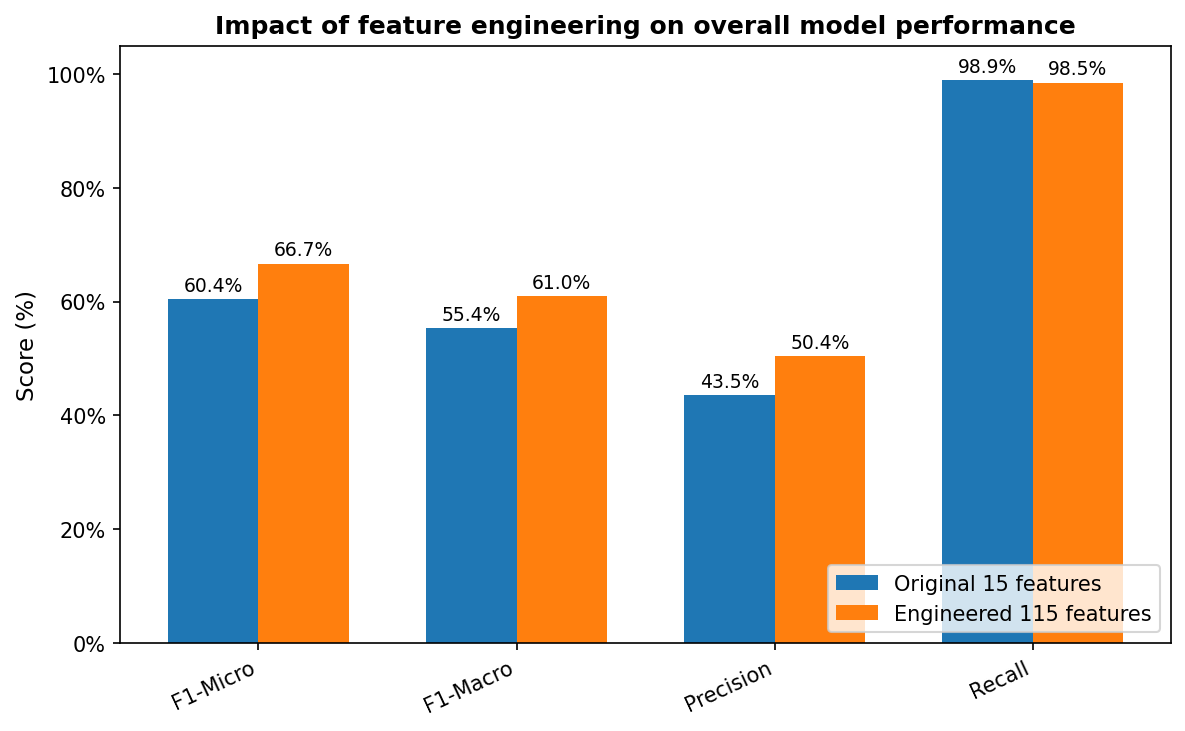
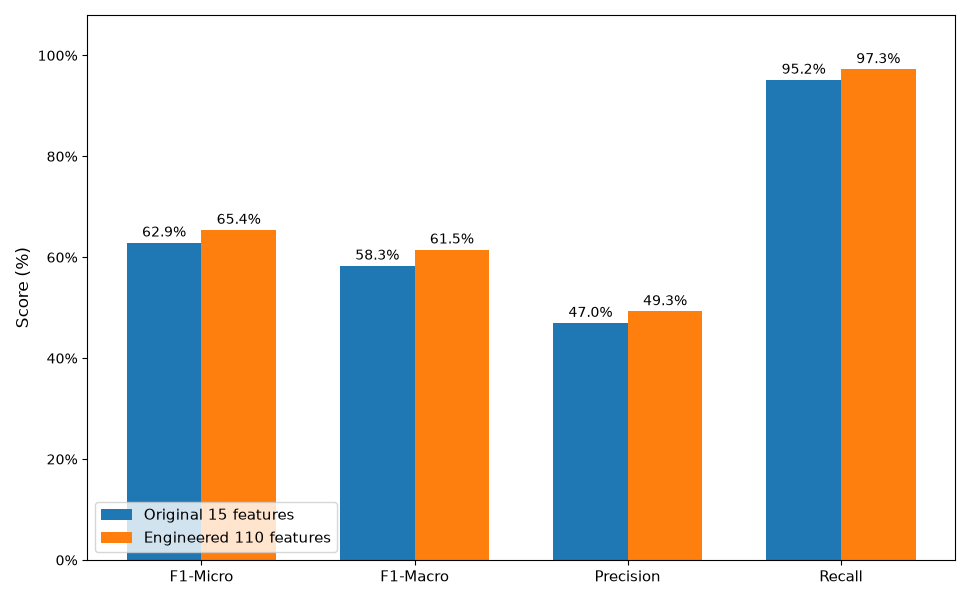
fix: regenerate article figures from the study data and leak-free model
- Redo the 15 vs. 110 feature comparison (Figure 2) under the leak-free
  protocol; previous numbers had no reproducible source
- Add script for Figures S1-S4 drawn from the dataset used in the study
- Add screenshot of the current Streamlit app (Figure 4) and the
  neural-network learning curves (Figure 6 / S33)
- README: mark the Random Forest / XGBoost reproducibility gap as an
  open issue and note that defect-free values in the study data are
  normally distributed, unlike the current generator

diff --git a/generate_supplementary_dataset_figures.py b/generate_supplementary_dataset_figures.py
@@ -1,0 +1,176 @@
+"""
+Supplementary dataset figures (Figures S1-S4), drawn from the dataset used in the study
+(aluminum_diecasting_dataset_with_features.csv) and the operating ranges of the metadata JSON.
+
+  figures/supplementary/figS1_distribution_process_variables.png
+  figures/supplementary/figS2_defect_occurrence_rates.png
+  figures/supplementary/figS3_scatter_matrix.png
+  figures/supplementary/figS4_variables_out_of_range.png
+
+Run from the repository root:  python generate_supplementary_dataset_figures.py
+"""
+import json
+from pathlib import Path
+
+import matplotlib
+
+matplotlib.use("Agg")
+import matplotlib.pyplot as plt
+import numpy as np
+import pandas as pd
+from matplotlib.lines import Line2D
+from matplotlib.patches import Patch
+
+ROOT = Path(__file__).resolve().parent
+OUT = ROOT / "figures" / "supplementary"
+BLUE, ORANGE = "#4682b4", "#ff7f50"
+
+SHORT_NAMES = {
+    "piston_velocity_phase1": "Piston velocity (Phase 1)",
+    "metal_velocity_gate": "Metal velocity at gate",
+    "fill_time": "Cavity fill time",
+    "phase_transition_position": "Phase transition position",
+    "intensification_time_phase3": "Intensification time",
+    "intensification_pressure": "Intensification pressure",
+    "solidification_time": "Solidification time",
+    "cycle_time": "Cycle time",
+    "sleeve_fill_percentage": "Sleeve fill percentage",
+    "sleeve_diameter": "Sleeve diameter",
+    "sleeve_length": "Sleeve length",
+    "plunger_sleeve_clearance": "Plunger-sleeve clearance",
+    "sleeve_temperature": "Sleeve temperature",
+    "plunger_temperature": "Plunger temperature",
+}
+SCATTER_VARS = ["metal_velocity_gate", "fill_time", "intensification_pressure", "solidification_time"]
+# Design proportions of the generator (Supplementary Eq. 4); the 3% of ">= 4 variables" is split 40/30/20/10
+EXPECTED = {1: 65.0, 2: 27.0, 3: 5.0, 4: 1.2, 5: 0.9, 6: 0.6, 7: 0.3}
+
+
+def load():
+    df = pd.read_csv(ROOT / "aluminum_diecasting_dataset_with_features.csv")
+    with open(ROOT / "aluminum_diecasting_dataset_metadata.json", encoding="utf-8") as f:
+        meta = json.load(f)
+    ranges = meta["generation_config"]["variable_ranges"]
+    return df, meta["columns"]["defects"], ranges
+
+
+def n_vars_out(df):
+    """Number of process variables outside the defect-free zone (14 continuous + lubrication)."""
+    return df["n_vars_out_of_range"] + (df["plunger_lubricant"] != 0)
+
+
+def fig_s1(df, ranges):
+    plt.style.use("seaborn-v0_8-whitegrid")
+    fig, axes = plt.subplots(3, 5, figsize=(22, 14))
+    axes = axes.ravel()
+    for ax, (var, name) in zip(axes, SHORT_NAMES.items()):
+        lo, hi = ranges[var]["defect_free_range"]
+        x = df[var]
+        inside = (x >= lo) & (x <= hi)
+        bins = np.linspace(x.min(), x.max(), 51)
+        ax.hist(x[inside], bins=bins, color=BLUE, alpha=0.75, edgecolor="black", linewidth=0.4)
+        ax.hist(x[~inside], bins=bins, color=ORANGE, alpha=0.75, edgecolor="black", linewidth=0.4)
+        ax.axvline(lo, color="green", linestyle="--", linewidth=1.8)
+        ax.axvline(hi, color="green", linestyle="--", linewidth=1.8)
+        ax.set_yscale("log")
+        ax.set_title(name, fontsize=11, fontweight="bold")
+        ax.set_xlabel(ranges[var]["unit"].replace("�", "°"), fontsize=9)
+    axes[-1].axis("off")
+    axes[-1].legend(
+        handles=[Patch(color=BLUE, alpha=0.75, label="Defect-free zone"),
+                 Patch(color=ORANGE, alpha=0.75, label="Defect-prone zone"),
+                 Line2D([0], [0], color="green", linestyle="--", label="Defect-free boundaries")],
+        loc="center", fontsize=12, frameon=False)
+    fig.tight_layout()
+    fig.savefig(OUT / "figS1_distribution_process_variables.png", dpi=100, facecolor="white")
+    plt.close(fig)
+
+
+def fig_s2(df, defects):
+    rates = (df[defects].mean() * 100).sort_values()
+    plt.style.use("seaborn-v0_8-whitegrid")
+    fig, ax = plt.subplots(figsize=(13, 10.5))
+    colors = plt.get_cmap("RdYlGn_r")(np.linspace(0.15, 0.85, len(rates)))
+    bars = ax.barh([d.replace("_", " ").title() for d in rates.index], rates.values, color=colors,
+                   edgecolor="black", linewidth=0.7)
+    ax.bar_label(bars, labels=[f"{v:.2f}%" for v in rates.values], padding=10, fontsize=9)
+    ax.set_xlabel("Occurrence Rate (%)", fontsize=13, fontweight="bold")
+    ax.set_xlim(0, rates.max() * 1.12)
+    ax.tick_params(labelsize=11)
+    ax.grid(axis="y", visible=False)
+    fig.tight_layout()
+    fig.savefig(OUT / "figS2_defect_occurrence_rates.png", dpi=100, facecolor="white")
+    plt.close(fig)
+
+
+def fig_s3(df, ranges):
+    all_ok = n_vars_out(df) == 0
+    plt.style.use("seaborn-v0_8-whitegrid")
+    n = len(SCATTER_VARS)
+    fig, axes = plt.subplots(n, n, figsize=(13, 13))
+    for i, vy in enumerate(SCATTER_VARS):
+        for j, vx in enumerate(SCATTER_VARS):
+            ax = axes[i, j]
+            if i == j:
+                ax.axis("off")
+                ax.text(0.5, 0.5, SHORT_NAMES[vx].replace(" ", "\n"), ha="center", va="center",
+                        fontsize=11, fontweight="bold", transform=ax.transAxes)
+                continue
+            ax.scatter(df.loc[~all_ok, vx], df.loc[~all_ok, vy], s=18, color="#ff8c00", alpha=0.7,
+                       edgecolors="#8b4500", linewidths=0.4, rasterized=True)
+            ax.scatter(df.loc[all_ok, vx], df.loc[all_ok, vy], s=18, color=BLUE, alpha=0.6,
+                       edgecolors="#1f3b57", linewidths=0.3, rasterized=True)
+            ax.set_xlim(*ranges[vx]["defect_prone_range"])
+            ax.set_ylim(*ranges[vy]["defect_prone_range"])
+            ax.tick_params(labelsize=7)
+            if i == n - 1 or (i == n - 2 and j == n - 1):
+                ax.set_xlabel(f"{SHORT_NAMES[vx]}\n({ranges[vx]['unit']})", fontsize=8)
+            if j == 0 or (j == 1 and i == 0):
+                ax.set_ylabel(f"{SHORT_NAMES[vy]}\n({ranges[vy]['unit']})", fontsize=8)
+    fig.legend(handles=[Line2D([0], [0], marker="o", linestyle="", color=BLUE, label="All variables in defect-free zones"),
+                        Line2D([0], [0], marker="o", linestyle="", color="#ff8c00", label="At least one variable in a defect-prone zone")],
+               loc="upper center", ncol=2, fontsize=11, frameon=False)
+    fig.tight_layout(rect=(0, 0, 1, 0.97))
+    fig.savefig(OUT / "figS3_scatter_matrix.png", dpi=100, facecolor="white")
+    plt.close(fig)
+
+
+def fig_s4(df):
+    n = n_vars_out(df)
+    scenarios = n[n > 0]
+    observed = scenarios.value_counts(normalize=True).sort_index() * 100
+    ks = sorted(EXPECTED)
+    plt.style.use("seaborn-v0_8-whitegrid")
+    fig, ax = plt.subplots(figsize=(11.7, 7))
+    w = 0.4
+    b1 = ax.bar(np.array(ks) - w / 2, [observed.get(k, 0.0) for k in ks], w, color=BLUE, edgecolor="black",
+                linewidth=1.3, label=f"Observed (n = {len(scenarios):,})")
+    b2 = ax.bar(np.array(ks) + w / 2, [EXPECTED[k] for k in ks], w, color=ORANGE, edgecolor="black",
+                linewidth=1.3, label="Design (Eq. 4)")
+    ax.bar_label(b1, fmt="%.1f", fontsize=9, padding=2)
+    ax.bar_label(b2, fmt="%.1f", fontsize=9, padding=2)
+    ax.set_xticks(ks)
+    ax.set_xlabel("Number of Variables Outside Defect-free Range (k)", fontsize=13, fontweight="bold")
+    ax.set_ylabel("Percentage of Defect Scenarios (%)", fontsize=13, fontweight="bold")
+    ax.tick_params(labelsize=12)
+    ax.legend(fontsize=12)
+    ax.grid(axis="x", visible=False)
+    fig.tight_layout()
+    fig.savefig(OUT / "figS4_variables_out_of_range.png", dpi=100, facecolor="white")
+    plt.close(fig)
+    return observed
+
+
+def main():
+    OUT.mkdir(parents=True, exist_ok=True)
+    df, defects, ranges = load()
+    fig_s1(df, ranges)
+    fig_s2(df, defects)
+    fig_s3(df, ranges)
+    observed = fig_s4(df)
+    print("[OK] figures written to", OUT)
+    print("Variables outside defect-free zone (% of defect scenarios):", observed.round(1).to_dict())
+
+
+if __name__ == "__main__":
+    main()

diff --git a/feature_engineering_ablation.py b/feature_engineering_ablation.py
@@ -1,0 +1,125 @@
+"""
+Feature-engineering ablation: neural network trained on the 15 original process variables vs. the
+110 engineered features, under the official leak-free protocol.
+
+Both models use the same 80/20 split, cost-sensitive learning (no SMOTE), early stopping on an internal
+hold-out of the training data (nn_noleak) and per-defect F-beta (beta=2) thresholds selected on
+out-of-fold development predictions; the test set is used only for the final metrics.
+The 110-feature results are the official ones (models/phase3_final_models.pkl, models/oof_proba/).
+
+Run from the repository root:  python feature_engineering_ablation.py          (train + plot)
+                               python feature_engineering_ablation.py --plot   (redraw from the saved JSON)
+Output: figures/feature_engineering_recall_data.json  (also read by figures/redraw_figure2_with_labels.py)
+        figures/feature_engineering_overall_performance.png
+"""
+import json
+import pickle
+import sys
+
+import matplotlib
+
+matplotlib.use("Agg")
+import matplotlib.pyplot as plt
+
+import numpy as np
+from sklearn.metrics import f1_score, precision_score, recall_score
+
+import unified_cv_pipeline as ucv
+from feature_engineering import RAW_VARS
+from threshold_tradeoff_analysis import apply_thresholds, optimize_thresholds_strategy
+
+STRATEGY = "fbeta_2"
+MT = ucv.MODEL_PYTORCH
+TOP_N = 8
+
+
+def metrics(y, pred):
+    return {
+        "f1_micro": float(f1_score(y, pred, average="micro", zero_division=0)),
+        "f1_macro": float(ucv.macro_f1_observed(y, pred)),
+        "precision_micro": float(precision_score(y, pred, average="micro", zero_division=0)),
+        "recall_micro": float(recall_score(y, pred, average="micro", zero_division=0)),
+    }
+
+
+def evaluate(y_dev, oof, y_test, test_proba):
+    thr = optimize_thresholds_strategy(y_dev, oof, STRATEGY)
+    pred = apply_thresholds(test_proba, thr)
+    per_defect_recall = [
+        float(recall_score(y_test[:, k], pred[:, k], zero_division=0)) for k in range(y_test.shape[1])
+    ]
+    return metrics(y_test, pred), per_defect_recall
+
+
+def plot_overall(out, path="figures/feature_engineering_overall_performance.png"):
+    keys = [("f1_micro", "F1-Micro"), ("f1_macro", "F1-Macro"), ("precision_micro", "Precision"), ("recall_micro", "Recall")]
+    v15 = [out["metrics_15"][k] * 100 for k, _ in keys]
+    v110 = [out["metrics_110"][k] * 100 for k, _ in keys]
+    x, w = np.arange(len(keys)), 0.35
+    fig, ax = plt.subplots(figsize=(9.7, 6))
+    b1 = ax.bar(x - w / 2, v15, w, label="Original 15 features", color="#1f77b4")
+    b2 = ax.bar(x + w / 2, v110, w, label=f"Engineered {out['n_110']} features", color="#ff7f0e")
+    ax.bar_label(b1, fmt="%.1f%%", padding=2, fontsize=10)
+    ax.bar_label(b2, fmt="%.1f%%", padding=2, fontsize=10)
+    ax.set_xticks(x, [name for _, name in keys], fontsize=11)
+    ax.set_ylabel("Score (%)", fontsize=12)
+    ax.set_ylim(0, 108)
+    ax.yaxis.set_major_formatter(lambda v, _: f"{v:.0f}%")
+    ax.legend(loc="lower left", fontsize=11)
+    fig.tight_layout()
+    fig.savefig(path, dpi=100, facecolor="white")
+    plt.close(fig)
+
+
+def main():
+    if "--plot" in sys.argv:
+        with open("figures/feature_engineering_recall_data.json") as f:
+            plot_overall(json.load(f))
+        return
+    data = ucv.load_pipeline_data(verbose=False)
+    split = ucv.prepare_split_data(data, verbose=False)
+    cols = [split.feature_names.index(v) for v in RAW_VARS]
+    y_dev, y_test = split.y_dev.astype(int), split.y_test.astype(int)
+    X_dev, X_test = split.X_dev[:, cols], split.X_test[:, cols]
+
+    # 15 features: out-of-fold predictions on the development set
+    oof = np.zeros(y_dev.shape, dtype=np.float32)
+    for k, (tr, va) in enumerate(ucv.get_cv_splits(split.y_dev), start=1):
+        Xtr, Xva, ytr, scaler = ucv.preprocess_fold(
+            X_dev[tr], X_dev[va], split.y_dev[tr].copy(), split.defect_names, use_smote=False, verbose=False
+        )
+        pw = ucv.compute_pos_weights(split.y_dev[tr])
+        model, *_ = ucv.fit_fold_model(MT, Xtr, ytr, Xtr, split.y_dev[tr], Xva, split.y_dev[va], pw, split.defect_names)
+        oof[va] = ucv.predict_proba_any(MT, model, Xva)
+        print(f"[15 features] fold {k}/5 done", flush=True)
+
+    # 15 features: final model on the whole development set
+    Xd, Xt, yd, _ = ucv.preprocess_fold(X_dev, X_test, split.y_dev.copy(), split.defect_names, use_smote=False, verbose=False)
+    pw = ucv.compute_pos_weights(split.y_dev)
+    final, _ = ucv.train_single_model(Xd, yd, None, None, pw, Xd.shape[1], yd.shape[1], verbose=False)
+    m15, r15 = evaluate(y_dev, oof, y_test, ucv.predict_proba_any(MT, final, Xt.astype(np.float32)))
+
+    # 110 features: official out-of-fold predictions and final model
+    with open("models/phase3_final_models.pkl", "rb") as f:
+        cache = pickle.load(f)
+    assert (cache["y_test"].astype(int) == y_test).all()
+    m110, r110 = evaluate(y_dev, np.load(f"models/oof_proba/{MT}.npy"), y_test, cache["models"][MT]["test_proba"])
+
+    top = np.argsort(-y_test.sum(axis=0), kind="stable")[:TOP_N]
+    out = {
+        "protocol": "leak-free NN, F-beta(2) thresholds selected on out-of-fold development predictions, test set",
+        "labels": [split.defect_names[i].replace("_", " ").title() for i in top],
+        "recall_15": [r15[i] for i in top],
+        "recall_110": [r110[i] for i in top],
+        "n_110": len(split.feature_names),
+        "metrics_15": m15,
+        "metrics_110": m110,
+    }
+    with open("figures/feature_engineering_recall_data.json", "w") as f:
+        json.dump(out, f, indent=2)
+    plot_overall(out)
+    print(json.dumps(out, indent=2))
+
+
+if __name__ == "__main__":
+    main()

diff --git a/README.md b/README.md
@@ -130,12 +130,19 @@ streamlit run streamlit_app.py
 * **Synthetic generator.** Running `generate_synthetic_dataset.py` reproduces `aluminum_diecasting_dataset.csv`
   byte-for-byte, not the study CSV (which came from an earlier run/version of the generator and is the canonical data
   of the article). The metadata `statistics` therefore describe the generated file, not the study data.
-* **Library versions.** The article's numbers (and `models/phase3_final_models.pkl`, from which the official tables
-  are computed) were produced with scikit-learn 1.7.2. Re-running the Phase 1/Phase 2 scripts with a newer
-  scikit-learn (1.9.1 was used for the last re-run of `reports/phase1_*` and `reports/phase2_*`) reproduces the neural
-  network exactly but gives different Random Forest results (e.g. CV recall without SMOTE 0.944 instead of 0.820) and
-  slightly different XGBoost / logistic-regression results. Use scikit-learn 1.7.2 to reproduce the published values;
-  the code selects the logistic-regression penalty in a way that is valid for both versions.
+* **Random Forest / XGBoost reproducibility (open issue).** Re-running the Phase 1/Phase 2 scripts in the current
+  environment (scikit-learn 1.9.1; last re-run stored in `reports/phase1_*` and `reports/phase2_*`) reproduces the
+  neural network exactly but NOT the Random Forest values reported in the article (CV recall without SMOTE 0.944
+  instead of 0.820; with SMOTE 0.713 instead of 0.624), and gives slightly different XGBoost / logistic-regression
+  values. Refitting the cached Random Forest of `models/phase3_final_models.pkl` with identical parameters and data
+  also gives a different model, so the published values come from an earlier environment (the legacy scaler was
+  pickled with scikit-learn 1.7.2, but the exact cause was not confirmed). The official tables are computed from the
+  cached models; the code selects the logistic-regression penalty in a way that is valid for old and new versions.
+* **Scripts added in the last revision round.** `feature_engineering_ablation.py` (15 vs. 110 features under the
+  leak-free protocol; Figure 2), `generate_supplementary_dataset_figures.py` (Figures S1-S4 from the study dataset) and
+  `figures/figure4_streamlit_dashboard.png` (screenshot of the current app). In the study dataset the defect-free
+  values follow a normal distribution centered on the zone (sd = width/6, limited to the zone), whereas
+  `generate_synthetic_dataset.py` draws them uniformly.
 * **Known modelling choices** (documented, not changed): early stopping is patience-based and returns the weights of the
   last epoch (not the best one); with SMOTE, the internal early-stopping hold-out is drawn after oversampling; OOF
   thresholds come from fold models and are applied to the model refitted on the whole development set.
